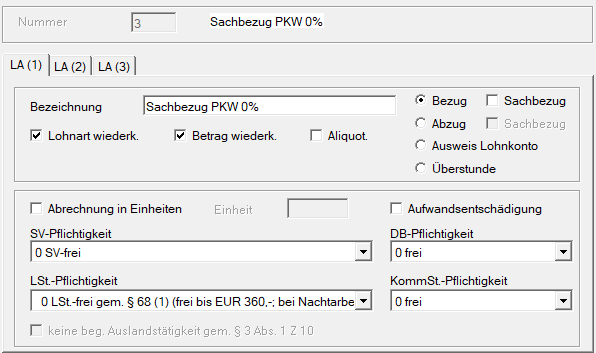
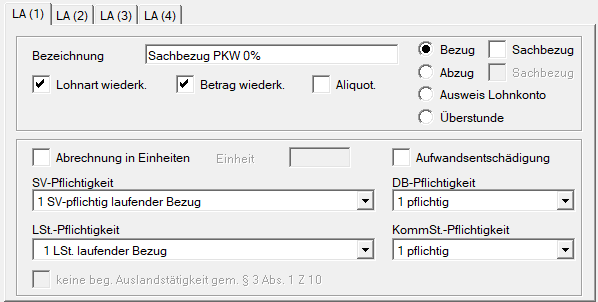
Änderungen Sachbezüge

diff --git a/docs/LOHN/Sachbezuege.md b/docs/LOHN/Sachbezuege.md
@@ -54,13 +54,6 @@ Vergeben Sie zunächst eine frei wählbare Fahrzeugnummer. Erfassen Sie anschlie
 
 Auch bei einem halben Sachbezug ist beim Firmenfahrzeug der *volle Sachbezugsprozentsatz* auszuwählen.
 
-Zur Verfügung stehen:
-
-- 0 %
-- 1,5 %
-- 2,0 %
-- Durchschnittswert
-
 Die Halbierung erfolgt somit nicht über den Sachbezugsprozentsatz im Firmenfahrzeug, sondern über den tatsächlich abgerechneten Sachbezugsbetrag in der Abrechnung.
 
 **Beispiel:**
